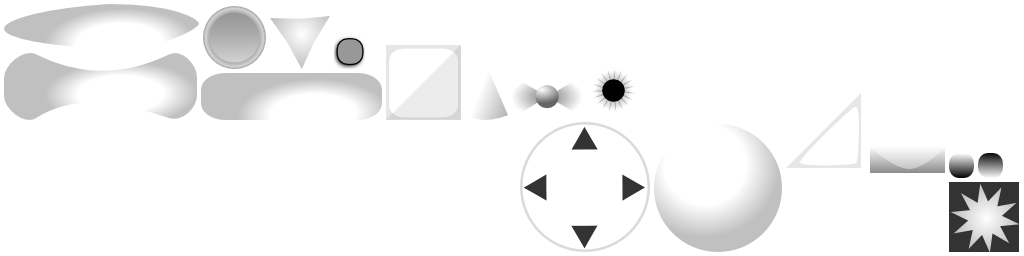
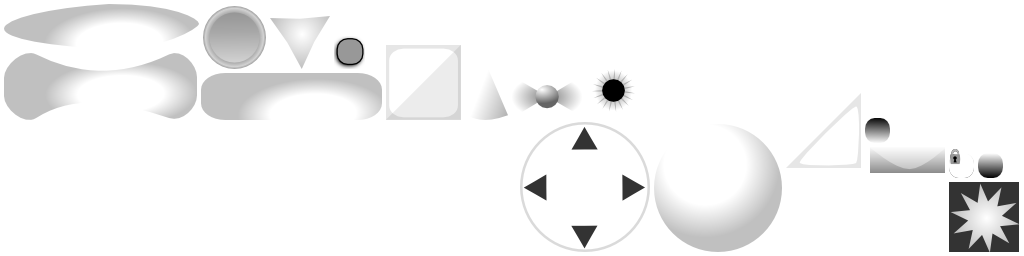
Moved Kill button. Added music echo. Implemented Chapter & Part select Screens. TODO: Check which levels are locked and which aren't.

Changed region(s): [[0.9062, 0.5938, 1.0, 0.7188], [0.8438, 0.4375, 0.875, 0.5625]]

diff --git a/core/src/com/morejesuslessme/tnelsond/unmutate/PartSelectScreen.java b/core/src/com/morejesuslessme/tnelsond/unmutate/PartSelectScreen.java
@@ -7,24 +7,24 @@ import com.badlogic.gdx.graphics.Color;
 import com.badlogic.gdx.scenes.scene2d.ui.*;
 import com.badlogic.gdx.scenes.scene2d.Stage;
 import com.badlogic.gdx.scenes.scene2d.utils.Align;
-import com.badlogic.gdx.scenes.scene2d.utils.ClickListener;
-import com.badlogic.gdx.scenes.scene2d.InputEvent;
+import com.badlogic.gdx.scenes.scene2d.utils.ChangeListener;
+import com.badlogic.gdx.scenes.scene2d.Actor;
 
 import com.badlogic.gdx.utils.viewport.ExtendViewport;
 
-public class MainMenuScreen implements Screen {
+public class PartSelectScreen implements Screen {
 	
 	final Unmutate game;
 	
 	public int vieww = 500;
-	public int viewh = 300;
+	public int viewh = 400;
 	public Table table;
 	private Stage stage;
 	
-	public MainMenuScreen(final Unmutate game) {
+	public PartSelectScreen(final Unmutate game) {
 		this.game = game;
-		//Gdx.graphics.setContinuousRendering(true);
-		//Gdx.graphics.requestRendering();
+		Gdx.graphics.setContinuousRendering(false);
+		Gdx.graphics.requestRendering();
 		stage = new Stage(new ExtendViewport(vieww, viewh), game.batch);
 		Gdx.input.setInputProcessor(stage);
 
@@ -32,38 +32,39 @@ public class MainMenuScreen implements Screen {
 		table = new Table();
 		table.debug();
 		table.debugTable();
-		//table.align(Align.left | Align.top);
 		table.setFillParent(true);
 		Label.LabelStyle labelstyle = new Label.LabelStyle(game.font, new Color(1, 1, 1, 1));
-		String levelintro = Gdx.files.internal(Level.getLevelName(".txt", false)).readString();
-		Label label = new Label(levelintro, labelstyle);
-		label.setWrap(true);
-		Table con = new Table();
-		con.add(label).fill().expand();
-		con.row();
-		TextButton start = new TextButton("START", game.bs);
-		start.addListener(new ClickListener()
-		{
-			@Override
-			public void clicked(InputEvent event, float x, float y){
-				game.setScreen(new GameScreen(game));
-				dispose();
+		for(int part = 0; part < Level.levels[Level.chapter]; ++part){
+			final TextButton partb = new TextButton("" + part, game.bs);
+			/*if(part > 2){
+				partb.setDisabled(true);
+				partb.setColor(.2f, .2f, .2f, 1);
 			}
-		});
-		con.add(start);
-		ScrollPane scroll = new ScrollPane(con);
-		table.add(scroll).fill().expand();
-
-		//scroll.setFillParent(true);
+			*/
+		//	else{
+			partb.setColor(0, 1, 0, 1);
+		//	}
+			partb.addListener(new ChangeListener()
+			{
+				@Override
+				public void changed(ChangeListener.ChangeEvent event, Actor a){
+					Level.part = Integer.parseInt(partb.getText().toString());
+					game.setScreen(new MainMenuScreen(game));
+					dispose();
+				}
+			});
+			table.add(partb).uniform();
+			if(part % 9 == 0)
+				table.row();
+		}
 		table.layout();
 		stage.addActor(table);
 
-		Gdx.gl.glClearColor(0.0f, 0.0f, 0.2f, 1);
+		Gdx.gl.glClearColor(0.0f, 0.1f, 0.4f, 1);
 	}
 
 	@Override
 	public void render(float delta) {
-		Gdx.gl.glClearColor(0.0f, 0.0f, 0.2f, 1);
 		Gdx.gl.glClear(GL20.GL_COLOR_BUFFER_BIT);
 		
 		stage.act(delta);

diff --git a/core/src/com/morejesuslessme/tnelsond/unmutate/ChapterSelectScreen.java b/core/src/com/morejesuslessme/tnelsond/unmutate/ChapterSelectScreen.java
@@ -7,21 +7,21 @@ import com.badlogic.gdx.graphics.Color;
 import com.badlogic.gdx.scenes.scene2d.ui.*;
 import com.badlogic.gdx.scenes.scene2d.Stage;
 import com.badlogic.gdx.scenes.scene2d.utils.Align;
-import com.badlogic.gdx.scenes.scene2d.utils.ClickListener;
-import com.badlogic.gdx.scenes.scene2d.InputEvent;
+import com.badlogic.gdx.scenes.scene2d.utils.ChangeListener;
+import com.badlogic.gdx.scenes.scene2d.Actor;
 
 import com.badlogic.gdx.utils.viewport.ExtendViewport;
 
-public class LevelSelectScreen implements Screen {
+public class ChapterSelectScreen implements Screen {
 	
 	final Unmutate game;
 	
 	public int vieww = 500;
-	public int viewh = 300;
+	public int viewh = 400;
 	public Table table;
 	private Stage stage;
 	
-	public LevelSelectScreen(final Unmutate game) {
+	public ChapterSelectScreen(final Unmutate game) {
 		this.game = game;
 		Gdx.graphics.setContinuousRendering(false);
 		Gdx.graphics.requestRendering();
@@ -33,26 +33,33 @@ public class LevelSelectScreen implements Screen {
 		table.debug();
 		table.debugTable();
 		table.setFillParent(true);
-		Table con = new Table();
 		Label.LabelStyle labelstyle = new Label.LabelStyle(game.font, new Color(1, 1, 1, 1));
 		Label label = new Label("UNMUTATE 0.1", game.skin);
-		con.add(label).fill().expand();
-		con.row();
-		TextButton chapter1 = new TextButton("1", game.bs);
-		chapter1.setColor(1, 1, 0, 1);
-		chapter1.addListener(new ClickListener()
-		{
-			@Override
-			public void clicked(InputEvent event, float x, float y){
-				game.setScreen(new MainMenuScreen(game));
-				dispose();
+		table.add(label).colspan(6);//.fill().expand();
+		table.row();
+		for(int chapter = 0; chapter < Level.levels.length; ++chapter){
+			final TextButton chapterb = new TextButton("" + chapter, chapter > 1 ? game.bs_locked : game.bs);
+			if(chapter > 1){
+				chapterb.setDisabled(true);
+				chapterb.setColor(.2f, .2f, .2f, 1);
 			}
-		});
-		con.add(chapter1);
-		ScrollPane scroll = new ScrollPane(con);
-		table.add(scroll).fill().expand();
-
-		//scroll.setFillParent(true);
+			else{
+				chapterb.setColor(0, 1, 0, 1);
+			}
+			chapterb.addListener(new ChangeListener()
+			{
+				@Override
+				public void changed(ChangeListener.ChangeEvent event, Actor a){
+					Level.chapter = Integer.parseInt(chapterb.getText().toString());
+					Level.part = 0;
+					game.setScreen(new PartSelectScreen(game));
+					dispose();
+				}
+			});
+			table.add(chapterb).uniform();
+			if(chapter % 6 == 0 && chapter != 0)
+				table.row();
+		}
 		table.layout();
 		stage.addActor(table);
 

diff --git a/core/src/com/morejesuslessme/tnelsond/unmutate/Level.java b/core/src/com/morejesuslessme/tnelsond/unmutate/Level.java
@@ -41,6 +41,7 @@ public class Level implements Json.Serializable{
 	public Color skyColor = new Color(.4f, .8f, 1, 1);
 
 	public static Json json;
+	public static Preferences latest;
 	public static Preferences pref;
 	public static Preferences prefNext;
 
@@ -51,11 +52,15 @@ public class Level implements Json.Serializable{
 	public final static int DEATH = 4;
 	public final static int END = 5;
 	public static int chapter = 0;
-	public static int part = 2;
+	public static int part = 0;
 	public static int currentgenome = 0;
 	public static String prefix = "unmutatelevel";
-	public static int[] levels = {1};
+	public static int[] levels = {2, 1, 1, 1, 1, 1, 0, 0, 0, 0, 0, 0, 0, 0, 0, 0};
 	public static Level currentlevel = null;
+
+	public static void initLatest(){
+		Preferences latest = Gdx.app.getPreferences("main.pref");
+	}
 
 	public static Genome getGenome(ChromosomePair[] c, Json j, String s, boolean f){
 		switch(Level.chapter){
@@ -290,7 +295,11 @@ public class Level implements Json.Serializable{
 				part = 0;
 			}
 		}
-		game.game.setScreen(new MainMenuScreen(game.game));
+		if(part == 0)
+			game.game.setScreen(new ChapterSelectScreen(game.game));
+		else
+			game.game.setScreen(new PartSelectScreen(game.game));
+
 		game.dispose();
 	}
 

diff --git a/core/src/com/morejesuslessme/tnelsond/unmutate/Creature.java b/core/src/com/morejesuslessme/tnelsond/unmutate/Creature.java
@@ -105,7 +105,7 @@ public class Creature extends Rectangle{
 		
 		hipWidth = 1 - hipWidth;
 		accel *= .08;
-		jump *= 7 * Math.sqrt(hipWidth);
+		jump *= 7 * Math.sqrt((hipWidth + .2f));
 		width *= 64;
 		legThick *= width*7/20;
 		legLength *= Creature.TLEG.w * width * 2.0f / TLEG.w;
@@ -374,12 +374,12 @@ public class Creature extends Rectangle{
 		float yleg = width * .3f + tempy;
 		
 		batch.setColor(color);
-		batch.draw(regions[Creature.LEG], dx + width/2 * hipWidth - legPivot, yleg - legThick, // Left
+		batch.draw(regions[Creature.LEG], dx + width/4 + width/3 * hipWidth - legPivot, yleg - legThick, // Left
 				legPivot, legPivot, // originX, originY
 				legLength, legThick, // width, height
 				1, 1, // scaleX, scaleY
 				lefta/2 + 135); // rotation
-		batch.draw(regions[Creature.LEG], dx + width - legThick - width/2 * hipWidth + legPivot, yleg - legThick,
+		batch.draw(regions[Creature.LEG], dx - width/4 + width - legThick - width/3 * hipWidth + legPivot, yleg - legThick,
 				legPivot, legPivot, // originX, originY
 				legLength, legThick, // width, height
 				1, 1, // scaleX, scaleY

diff --git a/core/src/com/morejesuslessme/tnelsond/unmutate/TInput.java b/core/src/com/morejesuslessme/tnelsond/unmutate/TInput.java
@@ -96,14 +96,15 @@ public class TInput implements InputProcessor {
 		b2.setColor(.3f, .5f, .0f, 1);
 		b3.setColor(.9f, .0f, .0f, 1);
 		b4.setColor(.0f, .2f, .4f, 1);
+		table.add(b3).expandX().align(Align.left);
 		table.add(b);
 		table.row();
+		table.add();
 		table.add(b2);
 		table.row();
-		table.add(b3);
-		table.row();
+		table.add();
 		table.add(b4);
-		table.layout();
+		//table.layout();
 	/*	stage.clear();
 		Label tutorial = new Label("HELLO, BLAH, BLAH, BLAH, BLAH, BLAH, WHATTEDY? WHAT WHAT?\nHOLD ON!", game.game.tutst);
 		stage.addActor(tutorial);
@@ -232,6 +233,9 @@ public class TInput implements InputProcessor {
 				break;
 			case Keys.DEL:
 				kill();
+				break;
+			case Keys.ESCAPE:
+				game.game.setScreen(new PartSelectScreen(game.game));
 				break;
 			case Keys.P:
 				if(game.selectedCreature != null)

diff --git a/core/src/com/morejesuslessme/tnelsond/unmutate/Unmutate.java b/core/src/com/morejesuslessme/tnelsond/unmutate/Unmutate.java
@@ -24,6 +24,7 @@ public class Unmutate extends Game {
 	public BitmapFont font;
 	public TextureAtlas atlas;
 	public TextButtonStyle bs;
+	public TextButtonStyle bs_locked;
 	public LabelStyle tutst;
 
 	public Json json = new Json();
@@ -43,11 +44,12 @@ public class Unmutate extends Game {
 		font = skin.getFont("regular");
 		tutst = skin.get("tutorial", LabelStyle.class);
 		bs = skin.get("default", TextButtonStyle.class);
+		bs_locked = skin.get("locked", TextButtonStyle.class);
 		bgmusic = new TMusic();
 		musicthread = new Thread(bgmusic);
 		musicthread.start();
 
-		this.setScreen(new LevelSelectScreen(this));
+		this.setScreen(new ChapterSelectScreen(this));
 		//this.setScreen(new GameScreen(this));
 	}
 

diff --git a/core/src/com/morejesuslessme/tnelsond/unmutate/TMusic.java b/core/src/com/morejesuslessme/tnelsond/unmutate/TMusic.java
@@ -10,7 +10,7 @@ import java.util.Scanner;
 // 0.5*sqrt(2)
 
 public class TMusic implements Runnable{
-	private int samplerate = 10000;
+	private int samplerate = 20000;
 	private volatile boolean running = true;
 	private float samples[];
 
@@ -85,7 +85,11 @@ public class TMusic implements Runnable{
 		Random ran = new Random();
 		TNote flute = new TNote(samplerate, new Scanner(Gdx.files.internal("songs/02.tly").read()), 0, 1/4f, 1/8f, 1/4f);
 		samples = flute.write();
-
+		for(int i = 0; i < samples.length - samplerate/6; ++i){
+			samples[i + samplerate/12] += samples[i]/4;
+			samples[i + samplerate/7] += samples[i]/8;
+			samples[i + samplerate/6] += samples[i]/10;
+		}
 	}
 
 	public void run(){
